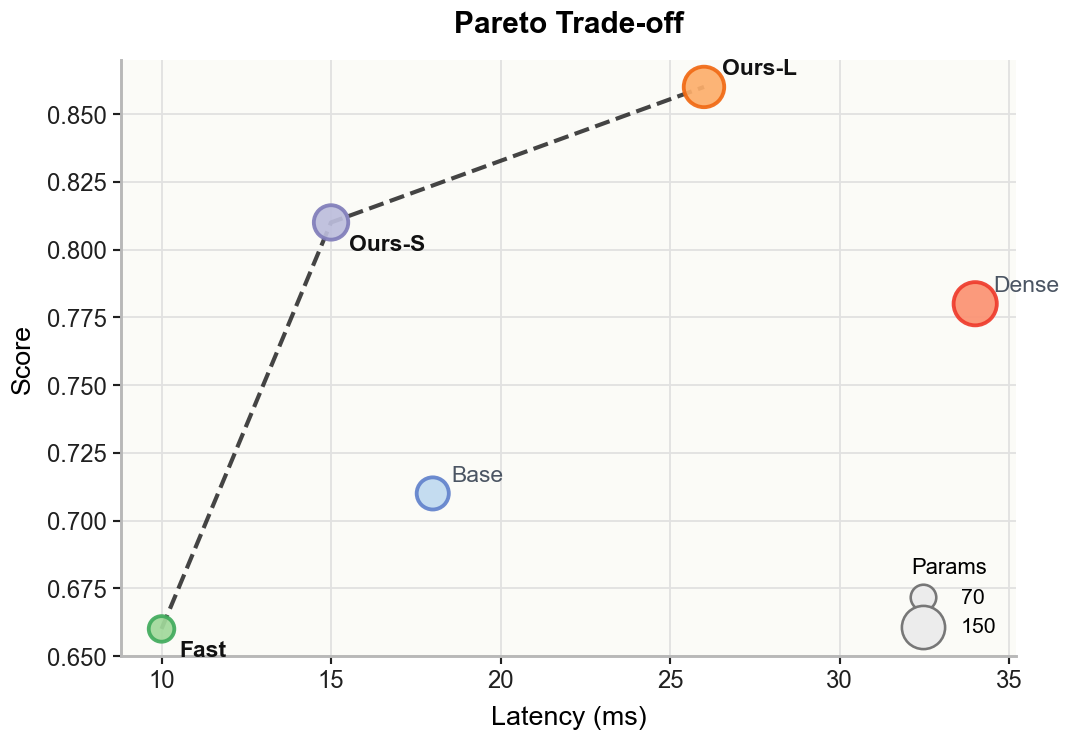
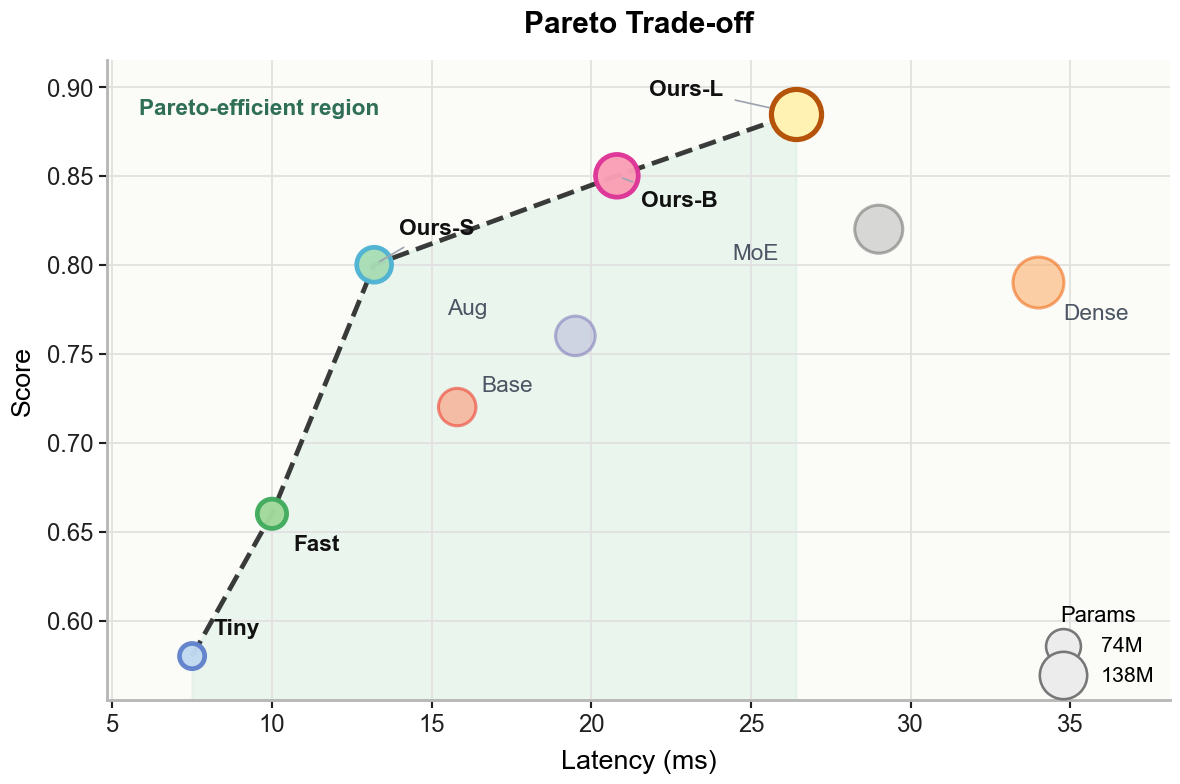
Improve README gallery plots

diff --git a/scripts/paper_plot.py b/scripts/paper_plot.py
@@ -30,6 +30,7 @@ import pandas as pd
 from paperplots import (
     SOFT_EDGE_EDGES,
     SOFT_EDGE_FILLS,
+    SOFT_EDGE_PALETTES,
     TOP_PAPER_PALETTES,
     WEB_INSPIRED_PALETTES,
     ablation_matrix_plot,
@@ -545,15 +546,19 @@ def violin_box_points(
     positions = np.arange(len(order))
 
     parts = ax.violinplot(values, positions=positions, widths=0.72, showmeans=False, showextrema=False, showmedians=False)
-    for body, fill_color, edge_color in zip(parts["bodies"], fill_colors, edge_colors):
+    for pos, body, fill_color, edge_color in zip(positions, parts["bodies"], fill_colors, edge_colors):
+        for path in body.get_paths():
+            vertices = path.vertices
+            vertices[:, 0] = np.minimum(vertices[:, 0], pos - 0.03)
         body.set_facecolor(mcolors.to_rgba(fill_color, 0.66))
         body.set_edgecolor(edge_color)
-        body.set_linewidth(1.05)
+        body.set_linewidth(1.15)
+        body.set_zorder(2)
 
     ax.boxplot(
         values,
-        positions=positions,
-        widths=0.22,
+        positions=positions + 0.10,
+        widths=0.18,
         patch_artist=True,
         showfliers=False,
         medianprops={"color": "#1F2937", "linewidth": 1.35},
@@ -562,33 +567,44 @@ def violin_box_points(
         capprops={"color": "#2F2F2F", "linewidth": 1.0},
     )
     for i, vals in enumerate(values):
-        jitter = rng.normal(0, 0.052, size=vals.size)
+        jitter = rng.normal(0, 0.035, size=vals.size)
         ax.scatter(
-            np.full(vals.size, i) + jitter,
+            np.full(vals.size, i + 0.24) + jitter,
             vals,
-            s=22,
+            s=23,
             facecolors="white",
             edgecolors=edge_colors[i],
-            linewidths=0.72,
-            alpha=0.92,
+            linewidths=0.82,
+            alpha=0.95,
             zorder=4,
         )
         if vals.size:
             mean_val = float(np.mean(vals))
+            median_val = float(np.median(vals))
             ax.scatter(
-                [i],
+                [i + 0.10],
                 [mean_val],
                 marker="D",
-                s=28,
+                s=32,
                 facecolors=fill_colors[i],
                 edgecolors="#111111",
-                linewidths=0.75,
+                linewidths=0.82,
                 zorder=5,
+            )
+            ax.plot([i + 0.18, i + 0.32], [median_val, median_val], color=edge_colors[i], linewidth=1.55, zorder=5)
+            ax.text(
+                i,
+                float(np.nanmax(vals)) + max(float(np.nanstd(vals)), 0.08) * 0.18,
+                f"n={vals.size}",
+                ha="center",
+                va="bottom",
+                fontsize=7.0,
+                color="#6B7280",
             )
 
     ax.set_xticks(positions, order)
     ax.set_ylabel(ylabel or value)
-    ax.set_xlim(-0.55, len(order) - 0.45)
+    ax.set_xlim(-0.62, len(order) - 0.28)
     finite_values = [v for v in values if v.size]
     if finite_values:
         ax.set_ylim(dynamic_ylim(np.concatenate(finite_values), pad_fraction=0.16))
@@ -1383,6 +1399,20 @@ def _demo_grouped(seed: int = 42) -> pd.DataFrame:
     return pd.DataFrame(rows)
 
 
+def _demo_distribution(seed: int = 66) -> pd.DataFrame:
+    rng = np.random.default_rng(seed)
+    specs = [
+        ("Control", np.r_[rng.normal(0.92, 0.10, 16), rng.normal(1.18, 0.08, 8)]),
+        ("Variant A", np.r_[rng.gamma(3.2, 0.12, 18) + 0.86, rng.normal(1.58, 0.09, 6)]),
+        ("Variant B", np.r_[rng.normal(1.18, 0.08, 10), rng.normal(1.72, 0.11, 14), [2.08]]),
+        ("Ours", np.r_[rng.normal(1.78, 0.12, 16), rng.normal(2.18, 0.13, 10), [2.55]]),
+    ]
+    rows = []
+    for label, vals in specs:
+        rows.extend({"group": label, "response": float(v)} for v in vals)
+    return pd.DataFrame(rows)
+
+
 def _demo_time(seed: int = 8) -> pd.DataFrame:
     rng = np.random.default_rng(seed)
     rows = []
@@ -1469,6 +1499,43 @@ def _demo_sensitivity() -> tuple[np.ndarray, np.ndarray, np.ndarray, list[tuple[
     z = np.asarray(z_rows)
     markers = [(0, 1, z[0, 0]), (3, 2, z[1, 3]), (7, 3, z[2, 7]), (10, 5, z[4, 10]), (14, 6, z[5, 14])]
     return x, layers, z, markers
+
+
+def demo_sem_palette_showcase() -> plt.Figure:
+    """Show the accepted raw-points+SEM style across major soft-edge color families."""
+
+    selections = [
+        ("Blue", 0),
+        ("Green", 1),
+        ("Red", 2),
+        ("Purple", 3),
+        ("Orange", 4),
+        ("Teal", 6),
+        ("Pink", 7),
+        ("Gray", 5),
+    ]
+    fig, axes = plt.subplots(2, 4, figsize=(9.7, 4.6), layout="constrained")
+    for ax, (label, block_idx) in zip(axes.flat, selections):
+        block = SOFT_EDGE_PALETTES[block_idx]
+        data = _demo_grouped(seed=90 + block_idx)
+        bar_scatter_sem(
+            data,
+            "group",
+            "response",
+            ax=ax,
+            ylabel="Response" if block_idx in {0, 4} else "",
+            fill=block["fill"],
+            edge=block["edge"],
+            style="compact",
+            seed=30 + block_idx,
+        )
+        ax.set_title(label, fontsize=8.2, pad=5, color=block["edge"][-1], fontweight="bold")
+        ax.tick_params(axis="x", labelrotation=28, labelsize=6.7)
+        ax.tick_params(axis="y", labelsize=6.8)
+        if block_idx not in {0, 4}:
+            ax.set_ylabel("")
+    fig.suptitle("Raw Points + SEM Palette Families", fontsize=11.2, fontweight="bold")
+    return fig
 
 
 def _demo_rl_panels() -> list[dict[str, object]]:
@@ -1558,7 +1625,7 @@ def _demo_rl_panels() -> list[dict[str, object]]:
 
 def demo(kind: str, out_dir: str | Path, formats: Sequence[str], dpi: int, style_name: str = "rl_benchmark") -> list[Path]:
     if kind == "readme-gallery":
-        selected = ["bars", "bar", "violin", "line", "ablation-matrix", "pareto-scatter", "qual-grid", "uncertainty-map"]
+        selected = ["bars", "sem-palettes", "violin", "line", "ablation-matrix", "pareto-scatter", "qual-grid", "uncertainty-map"]
         made: list[Path] = []
         for item in selected:
             made.extend(demo(item, out_dir, formats, dpi, style_name=style_name))
@@ -1578,11 +1645,18 @@ def demo(kind: str, out_dir: str | Path, formats: Sequence[str], dpi: int, style
         plt.close(fig)
         style = setup_theme(style_name)
 
+    if kind in {"sem-palettes", "all"}:
+        setup_theme("compact")
+        fig = demo_sem_palette_showcase()
+        made.extend(save_figure(fig, out / "demo_bar_scatter_sem_palettes", formats=formats, dpi=dpi))
+        plt.close(fig)
+        style = setup_theme(style_name)
+
     if kind in {"violin", "all"}:
         setup_theme("compact")
-        fig, ax = plt.subplots(figsize=(3.45, 2.55), layout="constrained")
-        violin_box_points(grouped, "group", "response", ax=ax, ylabel="Normalized response")
-        ax.set_title("Distribution and samples")
+        fig, ax = plt.subplots(figsize=(4.55, 3.05), layout="constrained")
+        violin_box_points(_demo_distribution(), "group", "response", ax=ax, ylabel="Normalized response")
+        ax.set_title("Distribution: density, box, samples", pad=8)
         made.extend(save_figure(fig, out / "demo_violin_box_points", formats=formats, dpi=dpi))
         plt.close(fig)
         style = setup_theme(style_name)
@@ -2009,6 +2083,7 @@ def main(argv: Sequence[str] | None = None) -> int:
             "readme-gallery",
             "bars",
             "bar",
+            "sem-palettes",
             "violin",
             "line",
             "scatter",

diff --git a/scripts/paperplots/top_paper_plots.py b/scripts/paperplots/top_paper_plots.py
@@ -276,7 +276,7 @@ def pareto_scatter_plot(
     xs = np.asarray(x, dtype=float)
     ys = np.asarray(y, dtype=float)
     sizes = np.asarray(size if size is not None else np.full_like(xs, 85), dtype=float)
-    scaled_sizes = 70 + 130 * (sizes - np.nanmin(sizes)) / max(float(np.nanmax(sizes) - np.nanmin(sizes)), 1e-9)
+    scaled_sizes = 68 + 210 * (sizes - np.nanmin(sizes)) / max(float(np.nanmax(sizes) - np.nanmin(sizes)), 1e-9)
     colors = [_soft_edge(i) for i in range(len(xs))]
     fills = [_soft_fill(i) for i in range(len(xs))]
     order = np.argsort(xs)
@@ -286,26 +286,66 @@ def pareto_scatter_plot(
         if ys[idx] >= best_y:
             frontier.append(int(idx))
             best_y = float(ys[idx])
-    ax.plot(xs[frontier], ys[frontier], color="#111111", linewidth=1.35, linestyle="--", alpha=0.78, zorder=2)
-    ax.scatter(xs, ys, s=scaled_sizes, facecolors=fills, edgecolors=colors, alpha=0.92, linewidth=1.25, zorder=3)
+    frontier = sorted(frontier, key=lambda idx: xs[idx])
+    x_pad = (float(np.nanmax(xs)) - float(np.nanmin(xs))) * 0.10
+    y_pad = (float(np.nanmax(ys)) - float(np.nanmin(ys))) * 0.18
+    ax.set_xlim(float(np.nanmin(xs)) - x_pad, float(np.nanmax(xs)) + x_pad * 1.55)
+    ax.set_ylim(float(np.nanmin(ys)) - y_pad * 0.45, float(np.nanmax(ys)) + y_pad * 0.55)
+    if len(frontier) >= 2:
+        ax.fill_between(
+            xs[frontier],
+            ys[frontier],
+            ax.get_ylim()[0],
+            color="#D8EFE4",
+            alpha=0.48,
+            step=None,
+            zorder=1,
+        )
+        ax.plot(xs[frontier], ys[frontier], color="#111111", linewidth=1.55, linestyle="--", alpha=0.82, zorder=2)
+    frontier_set = set(frontier)
+    ax.scatter(
+        xs,
+        ys,
+        s=scaled_sizes,
+        facecolors=fills,
+        edgecolors=colors,
+        alpha=[0.97 if idx in frontier_set else 0.58 for idx in range(len(xs))],
+        linewidth=[1.55 if idx in frontier_set else 1.0 for idx in range(len(xs))],
+        zorder=3,
+    )
+    offset_pattern = [(7, 7), (7, -12), (8, 5), (-42, 7), (8, -12), (-48, -10), (8, 10), (8, -10), (-48, 6), (8, 6)]
     for idx, (xi, yi, label) in enumerate(zip(xs, ys, labels)):
         is_frontier = idx in frontier
+        dx, dy = offset_pattern[idx % len(offset_pattern)]
         ax.annotate(
             label,
             (xi, yi),
-            xytext=(6, 4 if idx % 2 == 0 else -9),
+            xytext=(dx, dy),
             textcoords="offset points",
-            fontsize=7.5,
+            fontsize=7.4,
             color="#111111" if is_frontier else "#4B5563",
             fontweight="bold" if is_frontier else "normal",
+            arrowprops={
+                "arrowstyle": "-",
+                "color": "#9CA3AF",
+                "linewidth": 0.55,
+                "shrinkA": 2,
+                "shrinkB": 2,
+            }
+            if is_frontier and label.startswith("Ours")
+            else None,
         )
+    if frontier:
+        best_idx = max(frontier, key=lambda idx: ys[idx])
+        ax.scatter([xs[best_idx]], [ys[best_idx]], s=scaled_sizes[best_idx] * 1.12, facecolors="#FFF2B2", edgecolors="#B45309", linewidth=1.7, zorder=4)
+        ax.text(0.03, 0.94, "Pareto-efficient region", transform=ax.transAxes, ha="left", va="top", fontsize=7.4, color="#2F6F57", fontweight="bold")
     if size is not None:
-        legend_sizes = [float(np.nanmin(sizes)), float(np.nanmax(sizes))]
+        legend_sizes = [float(np.nanpercentile(sizes, 25)), float(np.nanpercentile(sizes, 75))]
         handles = [
-            ax.scatter([], [], s=70 + 130 * (v - np.nanmin(sizes)) / max(float(np.nanmax(sizes) - np.nanmin(sizes)), 1e-9), facecolors="#ECECEC", edgecolors="#777777", label=f"{v:g}")
+            ax.scatter([], [], s=68 + 210 * (v - np.nanmin(sizes)) / max(float(np.nanmax(sizes) - np.nanmin(sizes)), 1e-9), facecolors="#ECECEC", edgecolors="#777777", label=f"{v:g}M")
             for v in legend_sizes
         ]
-        ax.legend(handles=handles, title="Params", frameon=False, loc="lower right", fontsize=7.0, title_fontsize=7.2)
+        ax.legend(handles=handles, title="Params", frameon=False, loc="lower right", fontsize=7.0, title_fontsize=7.2, borderpad=0.2, handletextpad=0.8)
     ax.set_xlabel(xlabel)
     ax.set_ylabel(ylabel)
     ax.set_title(title, fontweight="bold", pad=9)
@@ -371,11 +411,11 @@ def demo_ablation_matrix() -> plt.Figure:
 
 
 def demo_pareto_scatter() -> plt.Figure:
-    labels = ["Base", "Fast", "Dense", "Ours-S", "Ours-L"]
-    x = np.array([18, 10, 34, 15, 26])
-    y = np.array([0.71, 0.66, 0.78, 0.81, 0.86])
-    sizes = np.array([95, 70, 150, 105, 135])
-    fig, ax = plt.subplots(figsize=(4.85, 3.35), layout="constrained")
+    labels = ["Tiny", "Fast", "Base", "Aug", "Dense", "MoE", "Ours-S", "Ours-B", "Ours-L"]
+    x = np.array([7.5, 10.0, 15.8, 19.5, 34.0, 29.0, 13.2, 20.8, 26.4])
+    y = np.array([0.58, 0.66, 0.72, 0.76, 0.79, 0.82, 0.80, 0.85, 0.885])
+    sizes = np.array([38, 52, 86, 96, 160, 142, 74, 112, 138])
+    fig, ax = plt.subplots(figsize=(5.35, 3.55), layout="constrained")
     pareto_scatter_plot(ax, x, y, labels, size=sizes, xlabel="Latency (ms)", ylabel="Score")
     return fig
 

diff --git a/SKILL.md b/SKILL.md
@@ -47,7 +47,7 @@ Use this skill when numeric truth matters and the final output should look like 
 ## Bundled Resources
 
 - `scripts/paper_plot.py`
-  Compatibility CLI and import surface. Run `python scripts/paper_plot.py --demo bars --out <folder>` for the default bar-chart style or `--demo qual-grid|metric-suite|ablation-matrix|pareto-scatter|uncertainty-map` for top-paper-inspired styles. Use `--demo readme-gallery` to regenerate the open-source README gallery. `--demo rl-bars` remains available as a compatibility alias. It can also plot common CSV/TSV/Excel tables directly, for example `python scripts/paper_plot.py --data results.xlsx --kind rl-benchmark-grid --panel Panel --group Method --value Score --subtitle Subtitle --orientation Orientation --error Error --display-value Display --out figures`.
+  Compatibility CLI and import surface. Run `python scripts/paper_plot.py --demo bars --out <folder>` for the default bar-chart style or `--demo qual-grid|metric-suite|ablation-matrix|pareto-scatter|uncertainty-map` for top-paper-inspired styles. Use `--demo sem-palettes` to show the accepted raw-points+SEM style across major screenshot-inspired color families, and `--demo readme-gallery` to regenerate the open-source README gallery. `--demo rl-bars` remains available as a compatibility alias. It can also plot common CSV/TSV/Excel tables directly, for example `python scripts/paper_plot.py --data results.xlsx --kind rl-benchmark-grid --panel Panel --group Method --value Score --subtitle Subtitle --orientation Orientation --error Error --display-value Display --out figures`.
 - `scripts/paperplots/`
   Layered implementation modules for style registries, palettes, top-paper plotters, and demo data. Prefer adding new families here rather than expanding the CLI file.
 - `scripts/collect_top_paper_figures.py`

diff --git a/README.en.md b/README.en.md
@@ -15,9 +15,9 @@ It is designed for the figures researchers actually need: benchmark bar charts, 
 
 All images below are generated demos from this repository, not copied paper figures.
 
-| Bar Charts | Raw Points + SEM | Distribution | Training Curves |
+| Bar Charts | SEM Palettes | Distribution | Training Curves |
 |---|---|---|---|
-| ![Bar charts](assets/gallery/demo_bar_charts.png) | ![Bar SEM](assets/gallery/demo_bar_scatter_sem.png) | ![Distribution](assets/gallery/demo_violin_box_points.png) | ![Training curves](assets/gallery/demo_line_ci.png) |
+| ![Bar charts](assets/gallery/demo_bar_charts.png) | ![SEM palettes](assets/gallery/demo_bar_scatter_sem_palettes.png) | ![Distribution](assets/gallery/demo_violin_box_points.png) | ![Training curves](assets/gallery/demo_line_ci.png) |
 
 | Ablation Matrix | Pareto Trade-off | Qualitative Grid | Uncertainty Map |
 |---|---|---|---|
@@ -49,6 +49,7 @@ Render one figure type:
 
 ```bash
 python scripts/paper_plot.py --demo bars --out paper_plot_demo
+python scripts/paper_plot.py --demo sem-palettes --out paper_plot_demo
 python scripts/paper_plot.py --demo line --out paper_plot_demo
 python scripts/paper_plot.py --demo ablation-matrix --out paper_plot_demo
 python scripts/paper_plot.py --demo pareto-scatter --out paper_plot_demo

diff --git a/README.md b/README.md
@@ -15,9 +15,9 @@
 
 下方图片全部由本仓库 demo 自动生成，不包含任何论文原图。
 
-| 柱状图 | Raw Points + SEM | 分布图 | 训练曲线 |
+| 柱状图 | 多色系 SEM | 分布图 | 训练曲线 |
 |---|---|---|---|
-| ![柱状图](assets/gallery/demo_bar_charts.png) | ![SEM](assets/gallery/demo_bar_scatter_sem.png) | ![分布图](assets/gallery/demo_violin_box_points.png) | ![训练曲线](assets/gallery/demo_line_ci.png) |
+| ![柱状图](assets/gallery/demo_bar_charts.png) | ![多色系 SEM](assets/gallery/demo_bar_scatter_sem_palettes.png) | ![分布图](assets/gallery/demo_violin_box_points.png) | ![训练曲线](assets/gallery/demo_line_ci.png) |
 
 | 消融矩阵 | Pareto 权衡 | 定性对比 | 不确定性地图 |
 |---|---|---|---|
@@ -49,6 +49,7 @@ python scripts/paper_plot.py --demo readme-gallery --out assets/gallery --format
 
 ```bash
 python scripts/paper_plot.py --demo bars --out paper_plot_demo
+python scripts/paper_plot.py --demo sem-palettes --out paper_plot_demo
 python scripts/paper_plot.py --demo line --out paper_plot_demo
 python scripts/paper_plot.py --demo ablation-matrix --out paper_plot_demo
 python scripts/paper_plot.py --demo pareto-scatter --out paper_plot_demo
